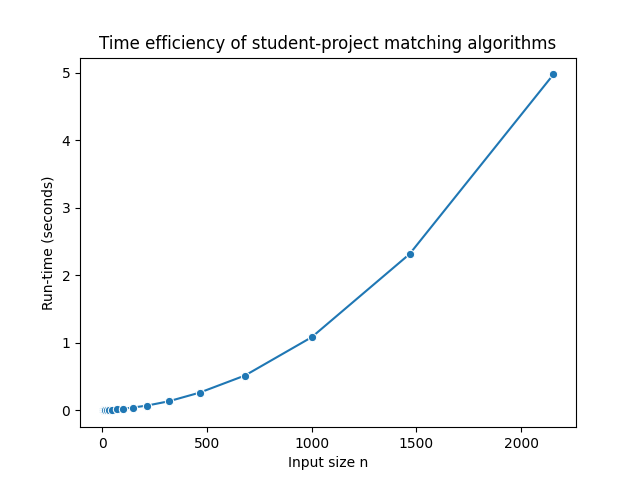
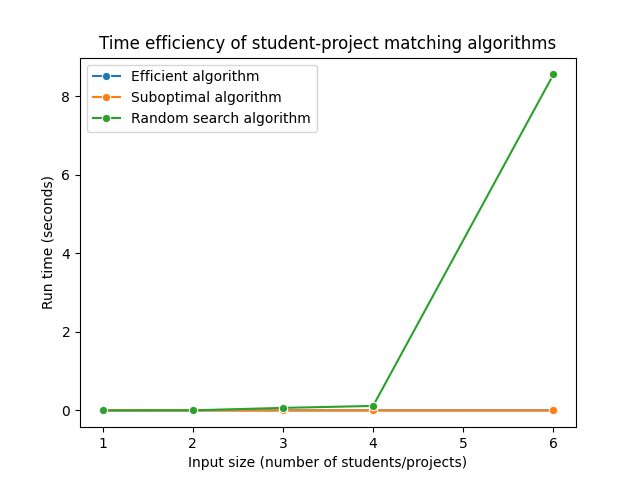
new evaluate_efficiency.py: now two different graphs

diff --git a/student_project_matching/evaluate_efficiency.py b/student_project_matching/evaluate_efficiency.py
@@ -1,7 +1,3 @@
-# Data Structures & Algorithms Spring 2024
-# Group 4: Student-Project Matching
-# evaluate_efficiency.py
-
 # Libraries
 import time
 import numpy as np
@@ -17,16 +13,11 @@ from student_project_matching.suboptimal_algorithm import suboptimal_algorithm
 from student_project_matching.naive_stable_matching import naive_stable_matching
 from tests.stable_match_checker import stable_match_checker
 
-################################################
-# Evaluate time complexity as input size grows #
-################################################
-
 def compare_algorithm_times(input_size_n, algorithms):
     '''Takes input size "n" and a list of different algorithms (as functions) for comparing run times
        on the SAME randomly generated dataset of students and projects.
        Returns a list of algorithm run times, one per-algorithm.'''
 
-    # Currently same "n" for all input parameters but can adjust!
     student_preferences, project_data, student_columns, project_columns = generate_random_students_projects(
         num_students=input_size_n,
         num_projects=input_size_n,
@@ -34,71 +25,70 @@ def compare_algorithm_times(input_size_n, algorithms):
         max_students_range=input_size_n,
         write_csv=False)
 
-    # Construct students Dataframe
     students_df = pd.DataFrame(student_preferences).T.reset_index()
     students_df.columns = student_columns
 
-    # Construct projects DataFrame
     projects_df_initial = pd.DataFrame(project_data).T.reset_index()
     projects_df_s_list = pd.DataFrame(projects_df_initial['assigned_students'].tolist())
     projects_df = pd.concat([projects_df_initial.iloc[:, 0:2], projects_df_s_list], axis=1)
     projects_df.columns = project_columns[0:2 + projects_df_s_list.shape[1]]
 
-    # Input validation
     result, message = validate_inputs(students_df, projects_df)
     assert result, message  # Failed validation
 
-    # Loop through algorithms
     algo_times = list()
     for algorithm in algorithms:
-
-        # Run algorithm and check run-time
         algo_t0 = time.time()
         matches = algorithm(students_df, projects_df) # RUN THIS ALGORITHM!!
         algo_t1 = time.time()
         algo_times.append(algo_t1 - algo_t0)
 
-        # Check algorithm # DO NOT RUN FOR TIMES!
-        #result, message = stable_match_checker(students_df, projects_df, matches)
-        #assert result, message
-
     return algo_times
 
-#################
-# Main run code #
-#################
-
 # Logging config
-# 'CRITICAL' - no outputs
-# 'ERROR' - errors only
-# 'INFO', 'DEBUG'
 log_level = 'CRITICAL'
 config_logging('evaluate_efficiency.log', log_level)
 
-# Loop setup values
-input_sizes = np.logspace(0, 4, 25).astype(int)[0:6] #[1, ..., 10, ..., 100, ..., 1000, ..., 10000]
-algorithm_list = [matching_algorithm, suboptimal_algorithm, naive_stable_matching]
+# Graph 1: Suboptimal vs. Matching Algorithm
+input_sizes = np.logspace(0, 4, 25).astype(int)
+input_sizes_1 = input_sizes[0:21]
+algorithm_list_1 = [matching_algorithm, suboptimal_algorithm]
 
-# Data structure to save times
-algo_times_dict = dict()
+algo_times_dict_1 = {}
+for input_size_n in input_sizes_1:
+    algo_times = compare_algorithm_times(input_size_n, algorithm_list_1)
+    algo_times_dict_1[input_size_n] = algo_times
+    print(f'Graph 1 - Input size {input_size_n}, algorithm times {algo_times}')
 
-# Actual algorithm comparison loop
-for input_size_n in input_sizes:
-    algo_times = compare_algorithm_times(input_size_n, algorithm_list)
-    algo_times_dict[input_size_n] = algo_times
-    print(f'Input size {input_size_n}, algorithm times {algo_times}')
+algo_times_df_1 = pd.DataFrame(algo_times_dict_1).T.reset_index()
+algo_times_df_1.columns = ['input_size_n', 'suboptimal', 'matching']
 
-# Handle for list of 2+ algorithm times
-algo_times_df = pd.DataFrame(algo_times_dict).T.reset_index()
-algo_times_df.columns = ['input_size_n', 'time1_seconds', 'time2_seconds', 'time3_seconds']
-#print(algo_times_df)
-
-# Visualize n vs. t
-sns.lineplot(data=algo_times_df, x='input_size_n', y='time1_seconds', marker='o', label='Efficient algorithm')
-sns.lineplot(data=algo_times_df, x='input_size_n', y='time2_seconds', marker='o', label='Suboptimal algorithm')
-sns.lineplot(data=algo_times_df, x='input_size_n', y='time3_seconds', marker='o', label='Random search algorithm')
-plt.title('Time efficiency of student-project matching algorithms')
+sns.lineplot(data=algo_times_df_1, x='input_size_n', y='suboptimal', marker='o', label='Matching Algorithm')
+sns.lineplot(data=algo_times_df_1, x='input_size_n', y='matching', marker='o', label='Suboptimal Algorithm')
+plt.yscale('log')
+plt.title('Comparison of Matching Algorithm vs. Suboptimal Algorithm (Log scale)')
 plt.xlabel('Input size (number of students/projects)')
-plt.ylabel('Run time (seconds)')
-#plt.show()
-plt.savefig('evaluate_efficiency.png')
+plt.ylabel('Run time (seconds, log scale)')
+plt.savefig('matching_vs_suboptimal.png')
+plt.clf()
+
+# Graph 2: Matching vs. Naive Stable Algorithm
+input_sizes_2 = input_sizes[0:6]
+algorithm_list_2 = [matching_algorithm, naive_stable_matching]
+
+algo_times_dict_2 = {}
+for input_size_n in input_sizes_2:
+    algo_times = compare_algorithm_times(input_size_n, algorithm_list_2)
+    algo_times_dict_2[input_size_n] = algo_times
+    print(f'Graph 2 - Input size {input_size_n}, algorithm times {algo_times}')
+
+algo_times_df_2 = pd.DataFrame(algo_times_dict_2).T.reset_index()
+algo_times_df_2.columns = ['input_size_n', 'matching', 'naive']
+
+sns.lineplot(data=algo_times_df_2, x='input_size_n', y='matching', marker='o', label='Efficient Algorithm')
+sns.lineplot(data=algo_times_df_2, x='input_size_n', y='naive', marker='o', label='Naive Algorithm')
+plt.yscale('log')
+plt.title('Comparison of Matching vs. Naive Algorithm (Log scale)')
+plt.xlabel('Input size (number of students/projects)')
+plt.ylabel('Run time (seconds, log scale)')
+plt.savefig('matching_vs_naive.png')

diff --git a/student_project_matching/suboptimal_algorithm.py b/student_project_matching/suboptimal_algorithm.py
@@ -1,5 +1,9 @@
 import pandas as pd
 from collections import defaultdict
+import logging
+
+# Initialize logging
+logging.basicConfig(level=logging.INFO, format='%(asctime)s - %(levelname)s - %(message)s')
 
 
 def preprocess_preferences(students_df, projects_df):
@@ -22,31 +26,38 @@ def preprocess_preferences(students_df, projects_df):
 
 
 def assign_student_to_project(student, project, matches, project_assignments, project_availability):
+    logging.info(f'Assigning {student} to {project}.')
     matches[student] = project
     project_assignments[project].append(student)
     project_availability[project] -= 1
+    logging.info(f'Updated availability for {project}: {project_availability[project]}.')
 
 
 def reevaluate_assignments(project, project_prefs, project_assignments, project_availability, matches):
+    logging.info(f'Reevaluating {project}')
     current_assignees = project_assignments[project]
     sorted_assignees = sorted(current_assignees,
                               key=lambda s: next((rank for stud, rank in project_prefs[project] if stud == s),
                                                  float('inf')))
+
     to_keep = project_availability[project]
     project_assignments[project] = sorted_assignees[:to_keep]
     displaced_students = sorted_assignees[to_keep:]
 
     for student in displaced_students:
+        logging.info(f'Displacing {student} from {project}')
         matches.pop(student, None)
         if student in project_assignments[project]:
             project_assignments[project].remove(student)
 
+    logging.info(f'Updated project assignments for {project}: {project_assignments[project]}')
     return displaced_students
 
 
 def suboptimal_algorithm(students_df, projects_df):
     students, projects, student_prefs, project_prefs, project_capacity, project_availability = preprocess_preferences(
         students_df, projects_df)
+
     matches = {}
     project_assignments = defaultdict(list)
     unassigned_students = students[:]
@@ -57,10 +68,13 @@ def suboptimal_algorithm(students_df, projects_df):
             assigned = False
             if student not in matches:
                 for project, _ in student_prefs[student]:
-                    # Added check to verify if student is in the project's preferences list
+                    logging.info(
+                        f'Checking project {project} for student {student} with availability {project_availability[project]}')
+
                     if project in project_prefs and any(stud == student for stud, _ in project_prefs[project]):
                         if project_availability[project] > 0:
-                            assign_student_to_project(student, project, matches, project_assignments, project_availability)
+                            assign_student_to_project(student, project, matches, project_assignments,
+                                                      project_availability)
                             assigned = True
                             break
                         else:
@@ -71,9 +85,11 @@ def suboptimal_algorithm(students_df, projects_df):
                                 next_round_students.append(student)
                             assigned = True
                             break
+
             if not assigned:
                 next_round_students.append(student)
         unassigned_students = list(set(next_round_students))
 
-    return matches
+        logging.info(f'Updated unassigned students: {unassigned_students}')
 
+    return matches
